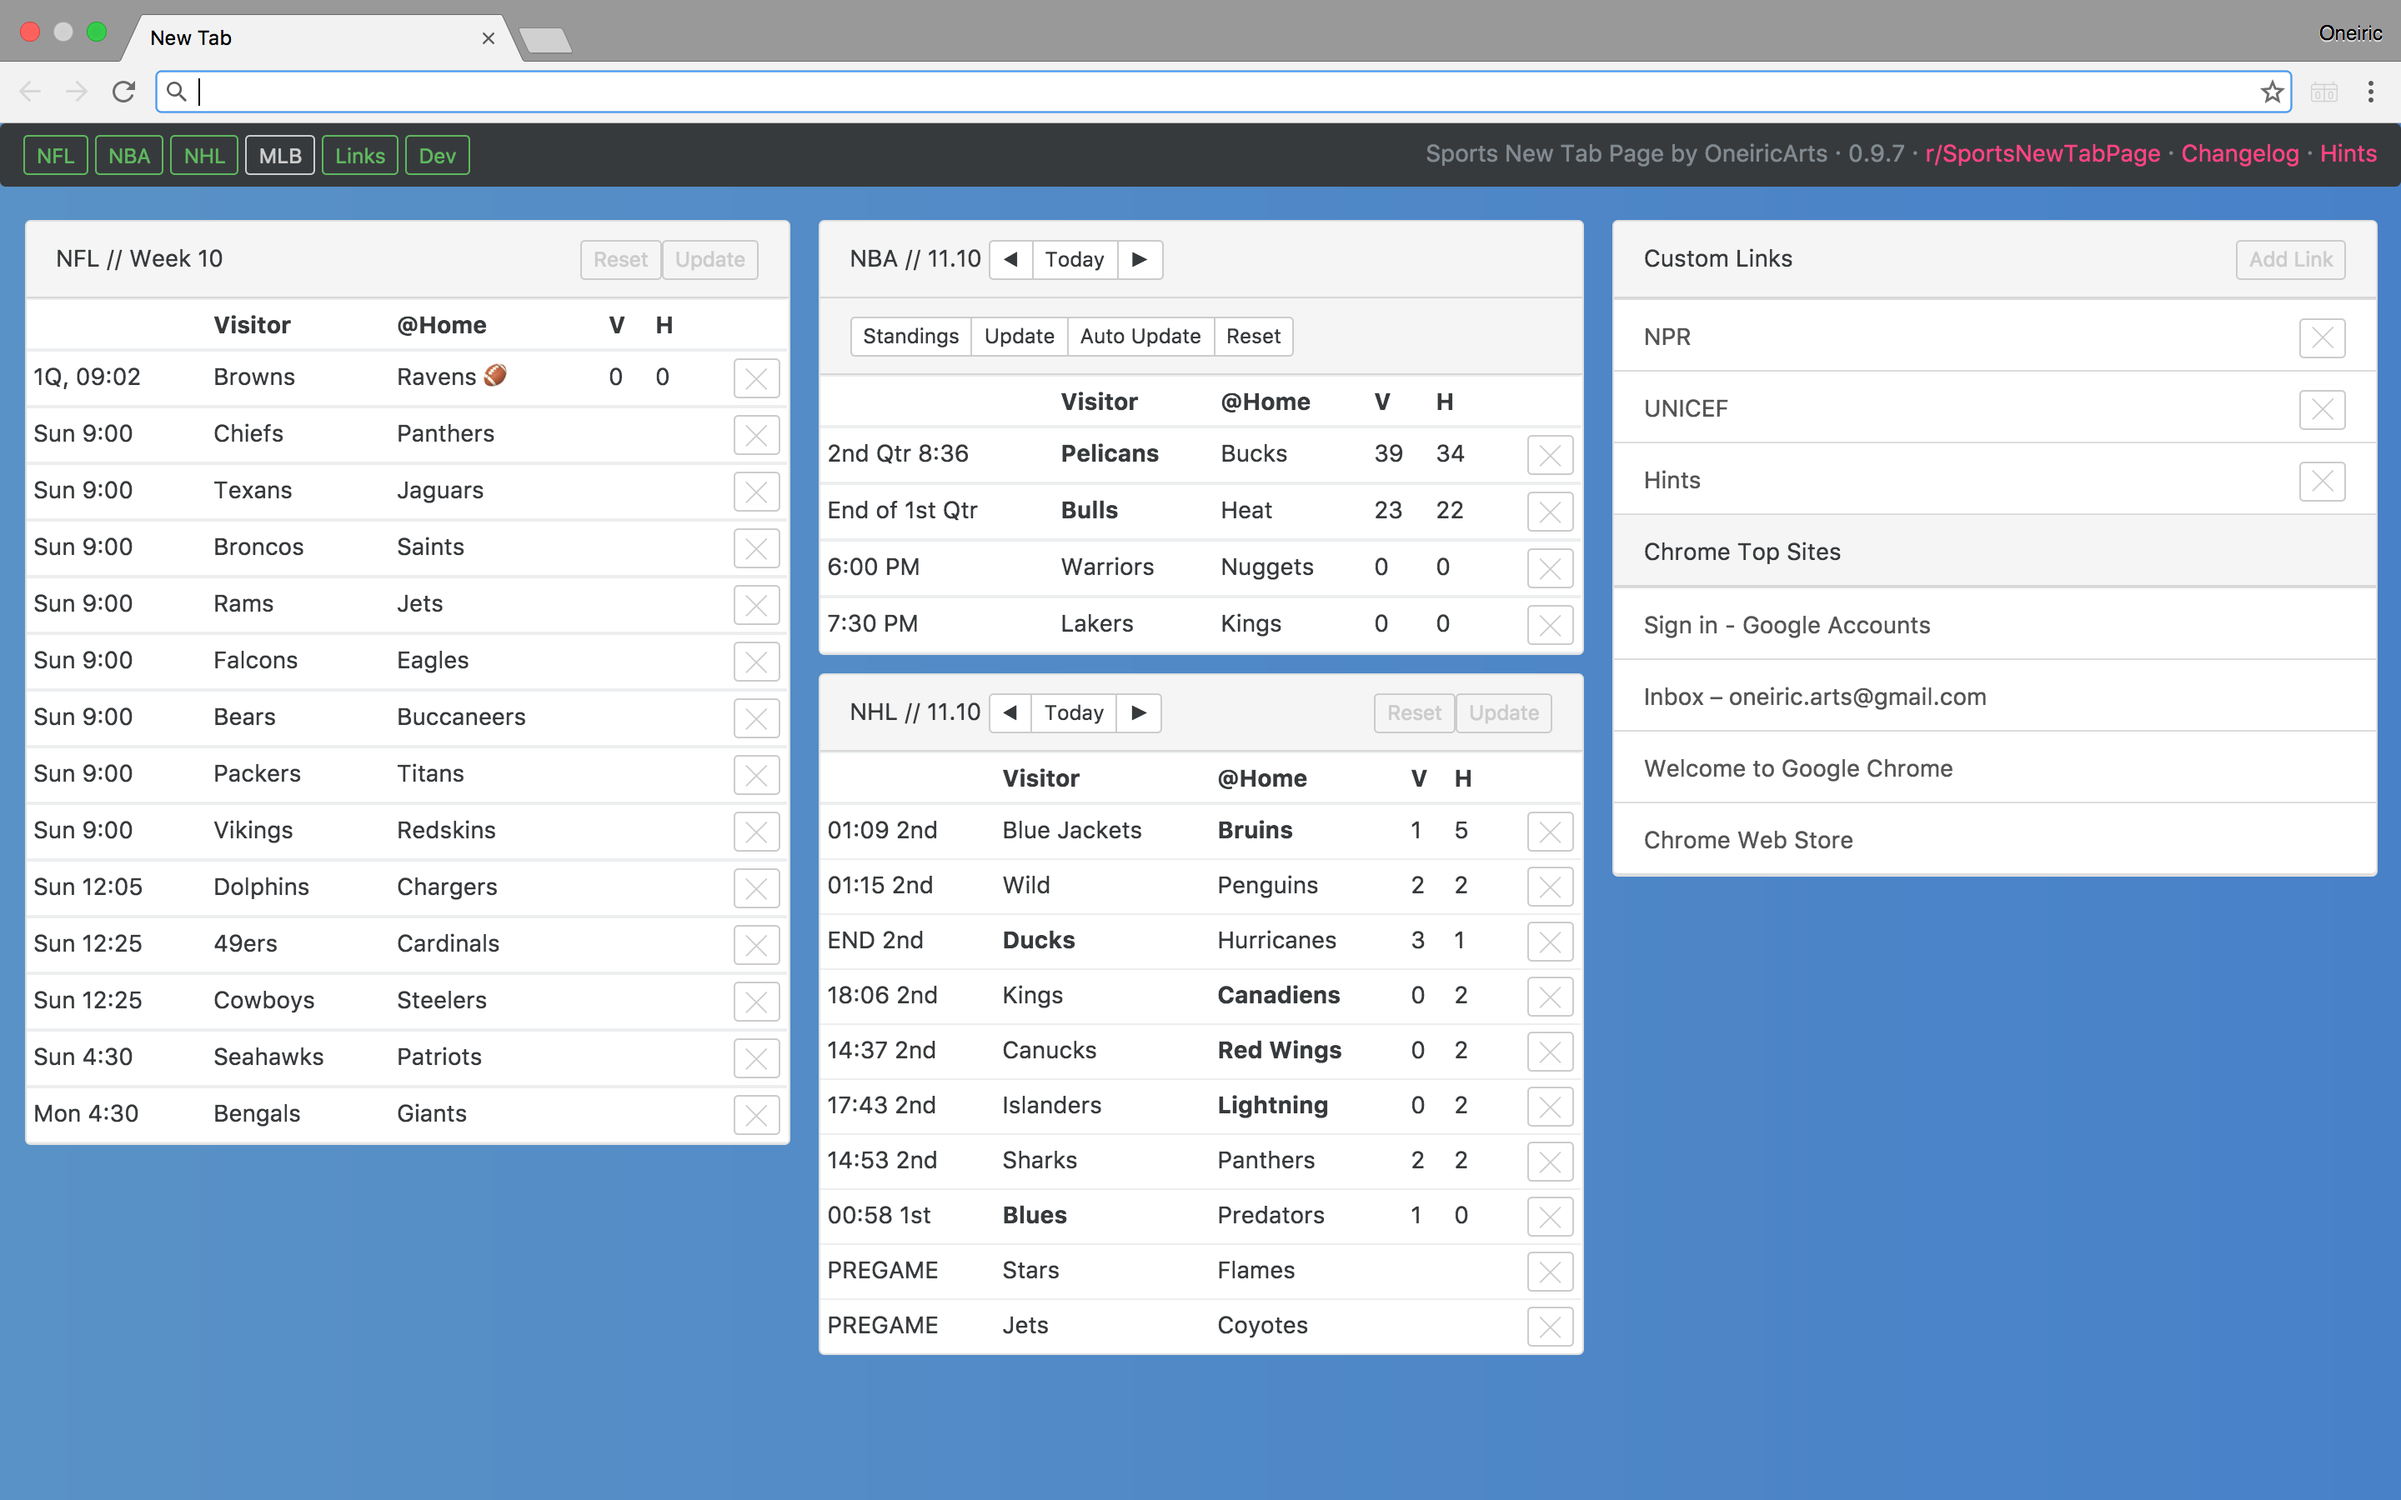
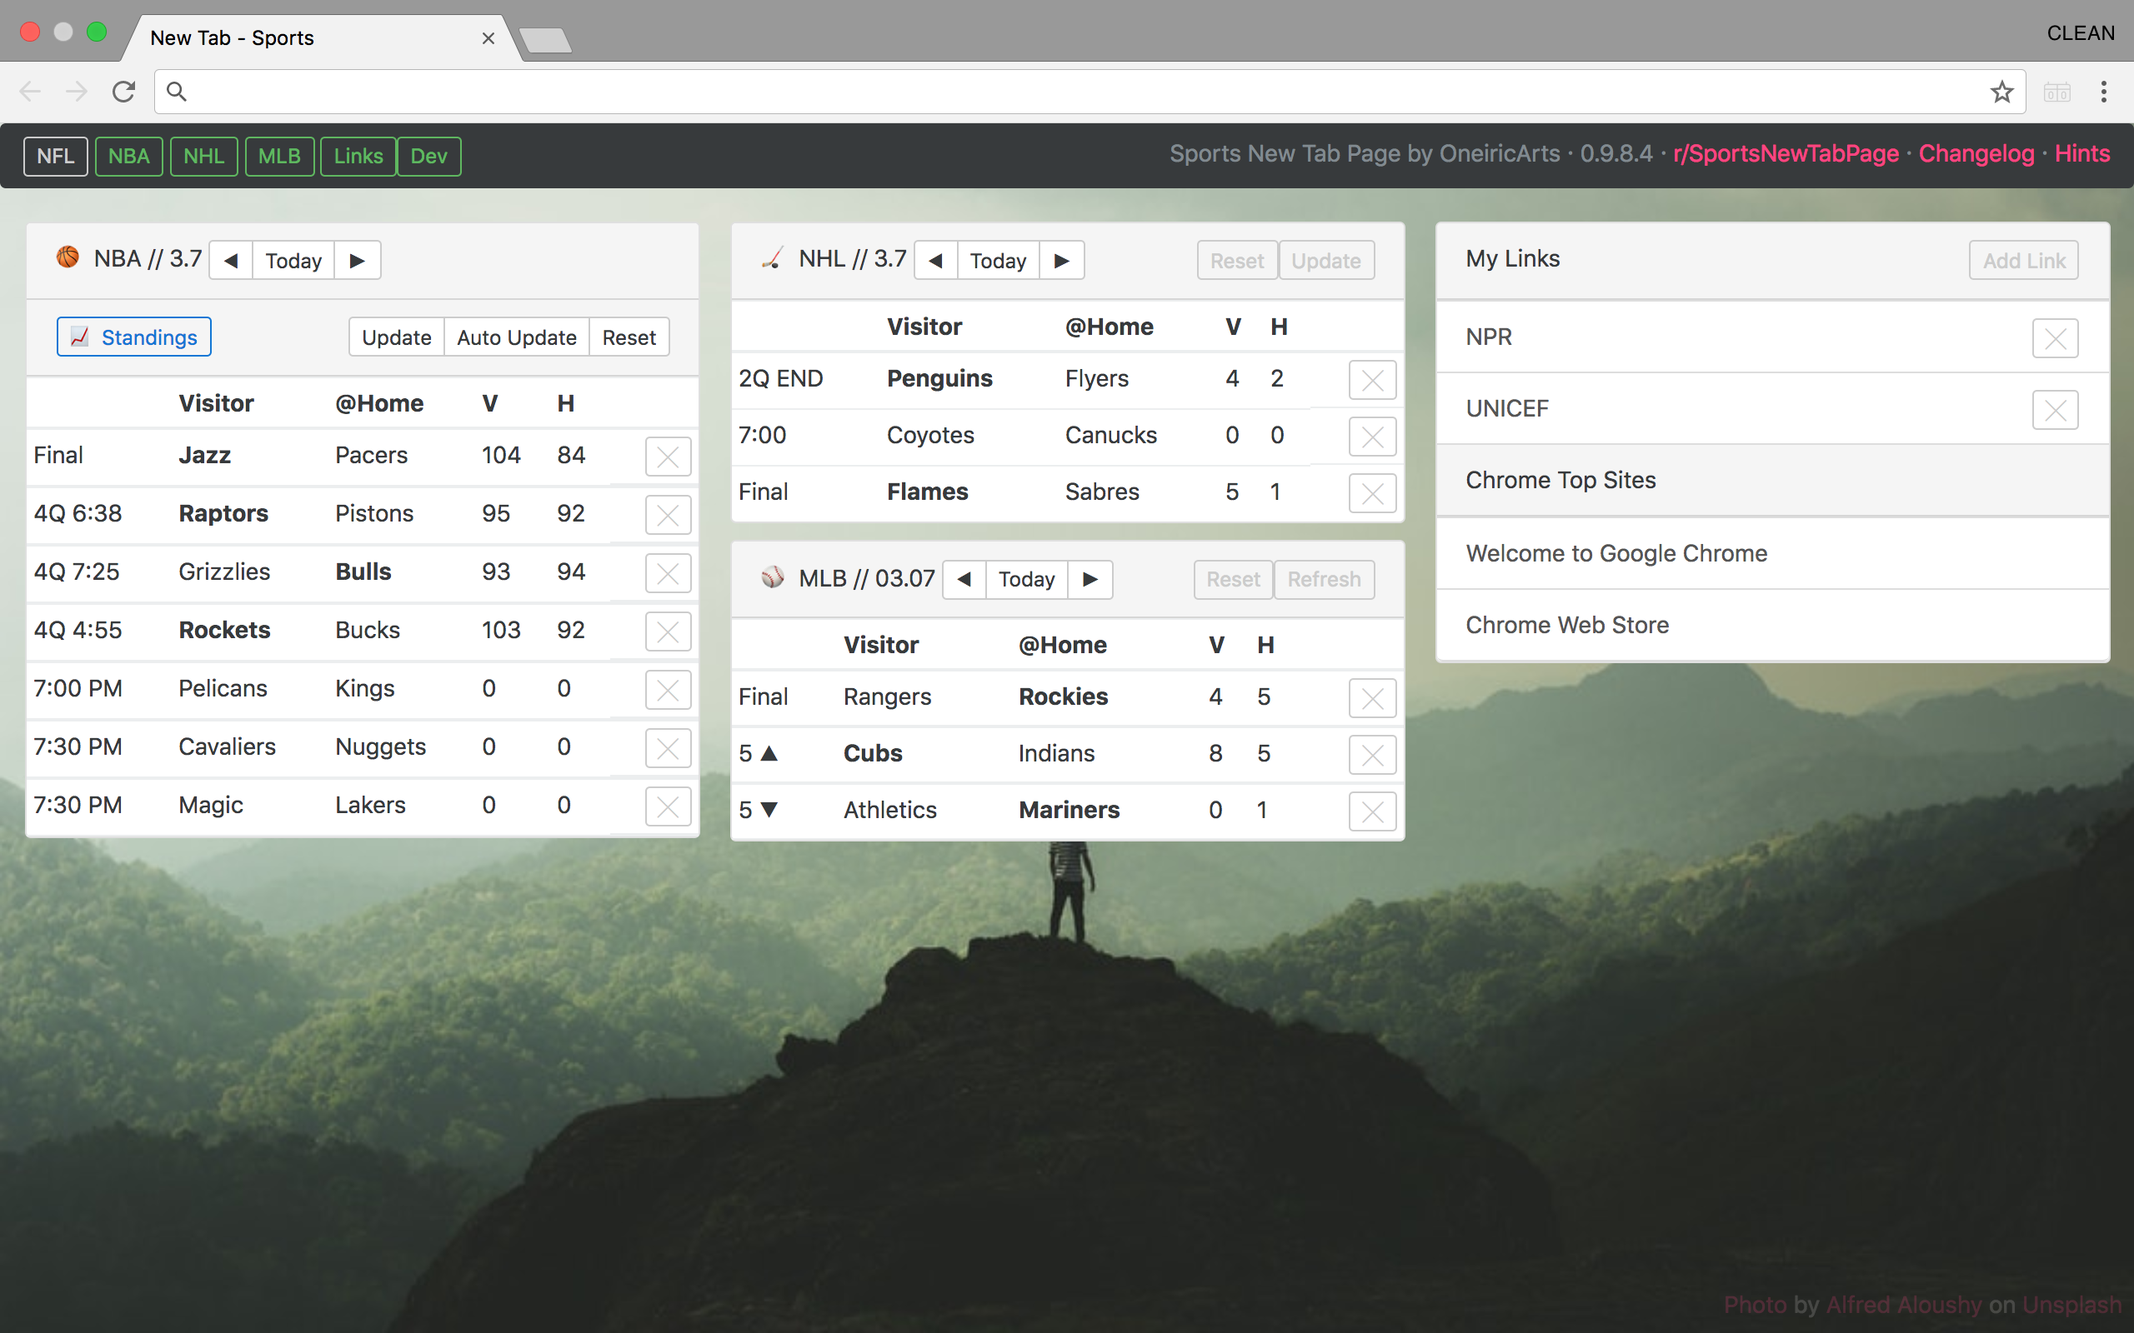
Add background images (#39)
* add global logging function

* add backgrounds from unsplash

* Log if running out of api calls (ratelimit)

* update README

diff --git a/source/js/backgrounds.js b/source/js/backgrounds.js
@@ -1,0 +1,115 @@
+class Backgrounds extends WidgetNew { // eslint-disable-line no-unused-vars
+
+  constructor() {
+    super();
+    this.datakey = 'Backgrounds_data';
+
+    this.data = {
+      photos: [],
+      currentPhoto: {
+        photoURL: '',
+        photoDataURL: '',
+        attribution: {
+          imageLink: '',
+          profileLink: '',
+          fullName: '',
+          unsplashAppName: 'Sports_New_Tab_Extension',
+        },
+      },
+    };
+  }
+
+  async init() {
+    await this.loadData();
+    this.setBackground();
+    this.updateBackgroundDataForNextPageLoad();
+  }
+
+  setBackground() {
+    if (this.data.currentPhoto.photoDataURL) {
+      $('body').css({
+        backgroundImage: `url(${this.data.currentPhoto.photoDataURL})`,
+        backgroundSize: 'cover',
+      });
+
+      if (this.data.currentPhoto.attribution) {
+        WidgetNew.displayTemplate('backgroundsAttribution', 'attribution',
+          this.data.currentPhoto.attribution, $('#backgrounds-attribution'));
+      }
+    } else {
+      $('body').css({
+        background: 'linear-gradient(to left, #457fca , #5691c8)',
+      });
+    }
+  }
+
+  async updateBackgroundDataForNextPageLoad() {
+    window.log(this.data.photos.length);
+    const chanceOfChangingPicture = Math.random() > 0.7 || true;
+
+    if (!chanceOfChangingPicture) return;
+
+    // select Current Photo For Next PageLoad
+    if (this.data.photos.length > 0) {
+      const photo = this.data.photos.shift();
+      this.data.currentPhoto.attribution.fullName = photo.user.name;
+      this.data.currentPhoto.attribution.profileLink = photo.user.links.html;
+      this.data.currentPhoto.attribution.imageLink = photo.links.html;
+      this.data.currentPhoto.photoURL = photo.urls.regular;
+    } else {
+      await this.getRandomPhototsFromUnsplash();
+    }
+
+    // save photo as Data URL for next page load
+    try {
+      const reader = new FileReader();
+      reader.onloadend = () => {
+        this.data.currentPhoto.photoDataURL = reader.result;
+        this.saveData();
+      };
+
+      const image = await (await fetch(this.data.currentPhoto.photoURL)).blob();
+      reader.readAsDataURL(image);
+    } catch (e) {
+      const errorMsg = `// Backgrounds fetch image error // ${e}`;
+      gaLogException(errorMsg, false);
+    }
+  }
+
+  async getRandomPhototsFromUnsplash() {
[1 lines of base64/hex data omitted]
+
+    const paramsArr = {
+      client_id: APPLICATION_ID,
+      // featured: true,
+      orientation: 'landscape',
+      count: 30,                           // number of photos to return
+      sig: Math.ceil(Math.random() * 100), // https://github.com/unsplash/unsplash-source-js/issues/9
+    };
+
+    const paramsString = _.map(Object.keys(paramsArr), k => `&${k}=${paramsArr[k].toString()}`).join('');
+
+    const url = `https://api.unsplash.com/photos/random/?${paramsString}`;
+
+    try {
+      const response = await fetch(url);
+
+      const ratelimitRemaining = response.headers.get('X-Ratelimit-Remaining');
+      if (ratelimitRemaining < 10) {
+        gaLogException(`${ratelimitRemaining} Unsplash API rate-limit-remaining`, false);
+      }
+
+      if (response.status === 200) {
+        const arrayOfPhotos = await response.json();
+        this.data.photos = arrayOfPhotos;
+        this.saveData();
+        this.updateBackgroundDataForNextPageLoad();
+      } else {
+        gaLogException(`Unsplash API Failed with ${await response.text()}`);
+      }
+    } catch (e) {
+      const errorMsg = `Backgrounds fetch api error ${e}`;
+      gaLogException(errorMsg, false);
+    }
+  }
+}

diff --git a/source/js/googleAnalytics.js b/source/js/googleAnalytics.js
@@ -100,15 +100,28 @@ $('html').on('click', 'button', e => sendClickEvent(e));
 $('html').on('click', 'span', e => sendClickEvent(e));
 $('html').on('click', 'tr', e => sendClickEvent(e, { label: 'game_row' }));
 
+/**
+ *
+ * @param {string} errorMsg
+ * @param {boolean} showAlert
+ */
+function gaLogException(errorMsg, showAlert = true) {
+  if (devEnv) {
+    if (showAlert) {
+      alert(errorMsg); // eslint-disable-line no-alert
+    } else {
+      console.log(errorMsg); // eslint-disable-line no-console
+    }
+  } else {
+    gaSendException(errorMsg);
+  }
+}
+
 // send uncaught (unexpected) exceptions to google analytics, if local installation show alert
 window.onerror = (msg, url, line, col, error) => {
   let extra = !col ? '' : `\n column: ${col}`;
   extra += !error ? '' : `\n error: ${error}`;
   const errorMsg = `Error: ${msg} \n url:${url} \n line: ${line} ${extra}`;
 
-  if (devEnv) {
-    alert(errorMsg); // eslint-disable-line no-alert
-  } else {
-    gaSendException(errorMsg);
-  }
+  gaLogException(errorMsg);
 };

diff --git a/source/style.css b/source/style.css
@@ -59,6 +59,29 @@
     font-size: 14px;
   }
 
+  html, body {
+    height: 100%;
+  }
+
+  #backgrounds-attribution {
+    color: rgb(211, 207, 207);
+    opacity: .2;
+
+    position: absolute;
+    width: 100%;
+    bottom: 0;
+    right: 0;
+    padding: 0.5em;
+
+    text-align: right;
+  }
+
+  #backgrounds-attribution:hover {
+    background-color: #000;
+    opacity: .8;
+    background: rgba(0, 0, 0, 0.8);
+  }
+
   @media (min-width: 20em) {
     .card-columns {
       column-count: 1;

diff --git a/source/new_tab.html b/source/new_tab.html
@@ -13,7 +13,7 @@
 
 <!--https://uigradients.com/# great ideas for background gradients-->
 
-<body style="background: linear-gradient(to left, #457fca , #5691c8);">
+<body>
 
 
   <!--<nav class="navbar navbar-light bg-faded">-->
@@ -57,6 +57,9 @@
       <div id="Links_widget"></div>
     </div>
 
+  </div>
+
+  <div id="backgrounds-attribution">
   </div>
 
   <!-- Links Modal-->

diff --git a/.eslintrc.js b/.eslintrc.js
@@ -15,6 +15,7 @@ module.exports = {
     "devEnv": false,
     "log": false,
     "gaSendEvent": false,
+    "gaLogException": false,
     "Widget": false,
     "WidgetNew": false,
     "Sport": false,
@@ -27,6 +28,7 @@ module.exports = {
     "MLB": false,
     "MLBData": false,
     "Links": false,
+    "Backgrounds": false,
   },
   "rules": {
   }

diff --git a/gulpfile.js b/gulpfile.js
@@ -30,6 +30,7 @@ const jsfiles = [
   'source/js/MLB.js',
   'source/js/NFL.js',
   'source/js/NBA.js',
+  'source/js/backgrounds.js',
   'source/js/pageHandler.js',
   'source/js/googleAnalyticsChrome.js',     // Chrome version by default
   // 'source/js/googleAnalyticsFirefox.js', // will replace Chrome version when building for FF

diff --git a/source/js/pageHandler.js b/source/js/pageHandler.js
@@ -90,6 +90,9 @@ $(document).ready(() => {
   const obj = new PageHandeler();
   obj.init();
 
+  const backGround = new Backgrounds();
+  backGround.on();
+
   if (!navigator.onLine) {
     $('#no-internet-alert').show();
   }

diff --git a/README.md b/README.md
@@ -17,11 +17,11 @@ The first part of developing this extension was basically making something that 
 
 Rough outline of plan (~~striked through~~ means completed):
 
-1. ~~Building a prototype to answer:~~  
+1. ~~Building a prototype to answer:~~
    - ~~Is it technically possible for me to build a sports-centric new tab page with live scores, box scores, etc? Do I find it useful? Do other people find it useful? Yes Yes Yes~~
 2. ~~Build a functioning protype with functionality and performance that is signifincantly better than other alternatives.~~
    - ~~Context aware highlighting to provide real time info. that leads to me being able to catch good moments of games~~
-   - ~~Build system that results in a optimized final build of the extension & fast start-up time~~ 
+   - ~~Build system that results in a optimized final build of the extension & fast start-up time~~
 3. Clean code base so that a new dev could pick it up very easily (track with [project](https://github.com/OneiricArts/CustomizeNewTab/projects/1)/milestone)
    - async/promises to eliminate callback hell and make logic more readable (~~including promisified wrappers around Chrome APIs~~)
    - restructure objects that are too strongly tied in the current OO design, remphasize truely shared features (now that I have a good knowledge of the APIs and how I want widgets to behave)
@@ -29,7 +29,7 @@ Rough outline of plan (~~striked through~~ means completed):
    - ~~Metrics to monitor performance, error rates, and telemetry data~~
    - Firefox port, will also ensure cross platform code
 4. Start adding more functionality again
-   - Beautiful backgrounds that don't degregade performance (start leveraging background scripts)
+   - ~~Beautiful backgrounds that don't degregade performance (start leveraging background scripts)~~
    - Bookmark Bar widget to reach feature parity with Chrome's default new tab page
    - Today's events from Google Calendar
    - Progressive Web App for mobile (PWAs in Android continue to get better)
@@ -38,7 +38,7 @@ Rough outline of plan (~~striked through~~ means completed):
 
 Information on building (uses gulp.js) and other general info (permissions, future plans, etc.) [in project wiki](https://github.com/OneiricArts/CustomizeNewTab/wiki/).
 
-### Acknowledgements  
+### Acknowledgements
 
 > "If I have seen further, it is by standing on the shoulders of giants." - Isaac Newton
 
